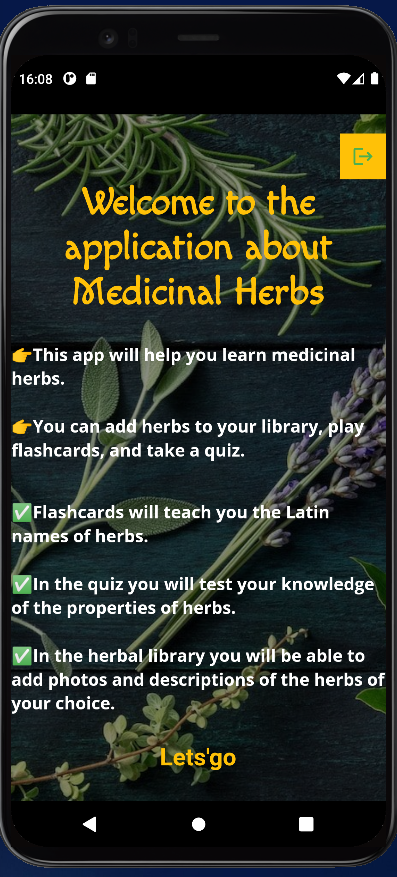
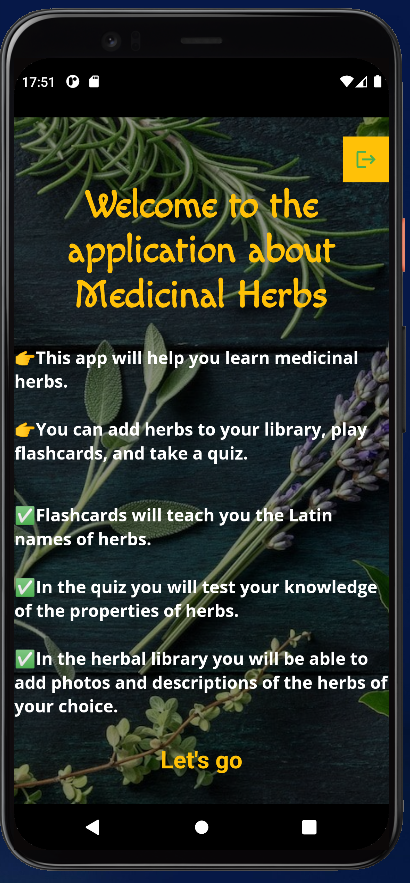
Add correct answers to quiz

Changed region(s): [[0.0, 0.0, 1.0, 1.0]]

diff --git a/lib/features/quiz_page/quiz_elements/result.dart b/lib/features/quiz_page/quiz_elements/result.dart
@@ -17,8 +17,6 @@ class Result extends StatelessWidget {
       resultText = 'You answered 2 questions correctly 😕';
     } else if (resultScore <= 3) {
       resultText = 'You answered 3 questions correctly 😊';
-      // } else {
-      //   resultText = 'You are awesome and innocent!';
     }
     return resultText;
   }
@@ -63,6 +61,108 @@ class Result extends StatelessWidget {
                 ),
               ),
               style: TextButton.styleFrom(primary: Colors.pink),
+            ),
+            const SizedBox(
+              height: 120,
+            ),
+            Row(
+              mainAxisAlignment: MainAxisAlignment.end,
+              children: [
+                TextButton(
+                  onPressed: () {
+                    Navigator.of(context).push(
+                      MaterialPageRoute(
+                        builder: (_) => const CorrectAnswersPage(),
+                      ),
+                    );
+                  },
+                  child: const Text(
+                    'See correct answers',
+                    style: TextStyle(
+                      fontWeight: FontWeight.bold,
+                      fontSize: 20,
+                    ),
+                  ),
+                  style: TextButton.styleFrom(primary: Colors.pink),
+                ),
+              ],
+            ),
+          ],
+        ),
+      ),
+    );
+  }
+}
+
+class CorrectAnswersPage extends StatelessWidget {
+  const CorrectAnswersPage({Key? key}) : super(key: key);
+
+  @override
+  Widget build(BuildContext context) {
+    return Scaffold(
+      appBar: AppBar(
+        flexibleSpace: Container(
+          decoration: const BoxDecoration(
+            gradient: LinearGradient(
+              colors: [
+                Color.fromARGB(255, 120, 28, 28),
+                Color.fromARGB(255, 19, 100, 104),
+                Color.fromARGB(255, 26, 118, 29),
+              ],
+              begin: Alignment.bottomRight,
+              end: Alignment.topLeft,
+            ),
+          ),
+        ),
+        elevation: 0,
+        shape: const RoundedRectangleBorder(
+          borderRadius: BorderRadius.vertical(
+            bottom: Radius.circular(16),
+          ),
+        ),
+        title: const Text('CORRECT ANSWERS'),
+      ),
+      body: Container(
+        decoration: const BoxDecoration(
+          image: DecorationImage(
+            image: NetworkImage(
+                'https://img.rawpixel.com/s3fs-private/rawpixel_images/website_content/v546batch3-mynt-34-badgewatercolor_1.jpg?w=800&dpr=1&fit=default&crop=default&q=65&vib=3&con=3&usm=15&bg=F4F4F3&ixlib=js-2.2.1&s=89288ef4b47127f7f34a5998b50e4470'),
+            fit: BoxFit.cover,
+            colorFilter: ColorFilter.mode(
+              Colors.black12,
+              BlendMode.darken,
+            ),
+          ),
+        ),
+        child: ListView(
+          children: [
+            Center(
+              child: Column(
+                children: [
+                  Row(
+                    crossAxisAlignment: CrossAxisAlignment.start,
+                    children: const [
+                      Text(
+                          "Question 1:\n\nWhat's this species that is added to the dried silage?\n\nAnswer: Dill"),
+                    ],
+                  ),
+                  const SizedBox(
+                    height: 70,
+                  ),
+                  const Text(
+                      "Question 2:\n\nThis species is commonly used in the form of infusions. It is famous for its sedative properties. It is: ?\n\nAnswer: Melissa"),
+                  const SizedBox(
+                    height: 70,
+                  ),
+                  const Text(
+                      "Question 3:\n\nWhat's this herb that is famous for its high iron and folic acid content?\n\nAnswer: Parsley"),
+                  const SizedBox(
+                    height: 70,
+                  ),
+                  const Text(
+                      "Question 4:\n\nThis aromatic herb is powerful and should be used in moderation, as it can lead to intoxication if consumed too much. It is: ?\n\nAnswer: Sage"),
+                ],
+              ),
             ),
           ],
         ),

diff --git a/lib/features/root_page/root_page.dart b/lib/features/root_page/root_page.dart
@@ -74,7 +74,7 @@ class RootPage extends StatelessWidget {
                     );
                   },
                   child: const Text(
-                    "Lets'go",
+                    "Let's go",
                     style: TextStyle(
                       color: Colors.amber,
                       fontWeight: FontWeight.bold,

diff --git a/lib/features/quiz_page/quiz_elements/quiz_home.dart b/lib/features/quiz_page/quiz_elements/quiz_home.dart
@@ -76,6 +76,7 @@ class _QuizHomePageState extends State<QuizHomePage> {
   @override
   Widget build(BuildContext context) {
     return MaterialApp(
+      debugShowCheckedModeBanner: false,
       home: Scaffold(
         appBar: AppBar(
           flexibleSpace: Container(
